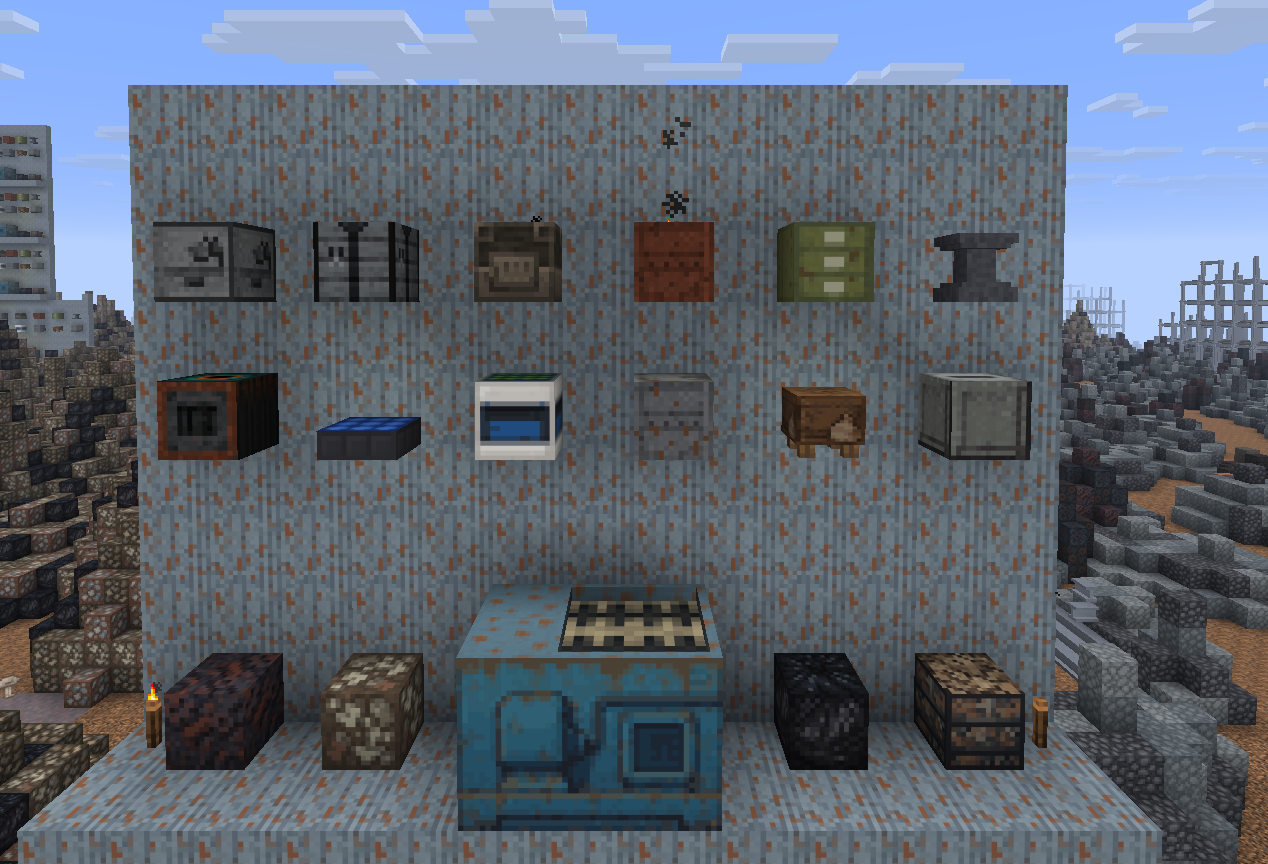
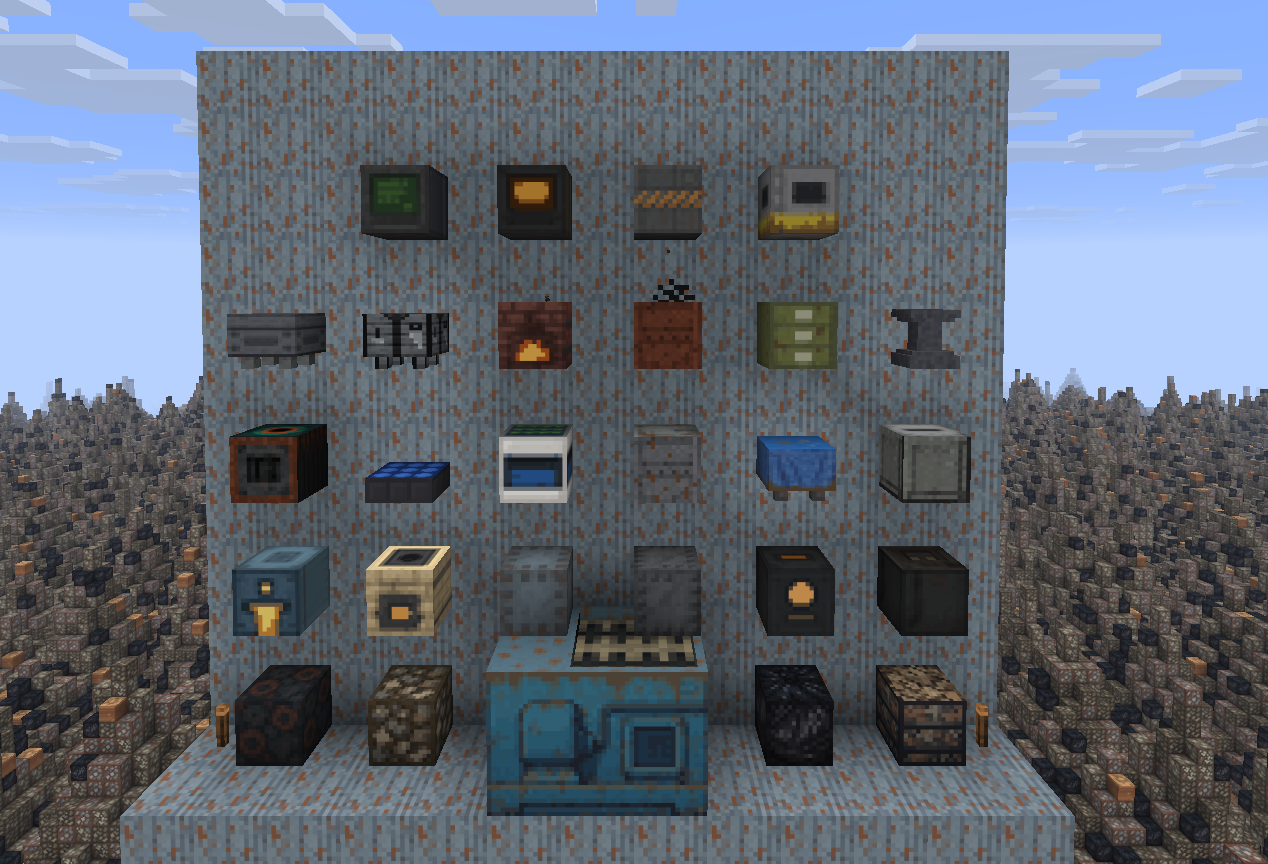
fix(showcase): the machine wall carries the market, forms its Separator, and stops dropping piles (#354) (#442)
* fix(showcase): the machine wall carries the market, forms its Separator, and stops dropping piles (#354)

- SEPARATOR_CELLS had a Machine Frame at (1, 0, 1), where the blueprint
  has wanted the Motor since #165. Checked against the whole of
  SeparatorCoreBlock.createBlueprint rather than the one cell; it forms now.
- A market row on top: Sell, Buy and Freight Terminals and the Hauler
  Depot, the four machines missing from the wall. WALL_H 9 -> 11 and the
  camera moves back to hold the taller wall at the same margin.
- The four piles are FallingBlocks. Mounted in the third row they always
  dropped; they used to land on the floor, and since #367 put machines on
  the floor course they landed on top of those. The piles now sit on the
  floor course beside the Separator and the machines take the third row.

Rebuilt with tools/build_showcase.py, installed into the dev world, shot
with tools/shoot_scenes.py machine_wall, and cropped into
docs/cf_image_gallery/03-machine-wall.png with prepare_gallery.py (948 KB).

Claude-Session: https://claude.ai/code/session_014wK5x4yxZaTgKUgU9JJ6dD

* docs(showcase): four rows of machines, not five

Review of #442: the third row is one of the original three, with its piles
swapped for machines.

Claude-Session: https://claude.ai/code/session_014wK5x4yxZaTgKUgU9JJ6dD

---------

diff --git a/tools/build_showcase.py b/tools/build_showcase.py
@@ -647,20 +647,28 @@ RECLAIM_AFTER = Scene(
 # other, the far ones shrink with distance, and no camera catches the Separator without losing the
 # bench behind it. A wall gives every machine the same distance and the same size, which is the whole
 # reason the museum works, and here the subject is the machines rather than the room.
-WALL_W, WALL_H = 13, 9
+WALL_W, WALL_H = 13, 11
 PANEL = "recompile:corrugated_metal"
-BEAM, FRAME = "recompile:steel_i_beam", "recompile:machine_frame"
+BEAM, FRAME, MOTOR = "recompile:steel_i_beam", "recompile:machine_frame", "recompile:motor"
 
-# Mounted on the wall face, read left to right, top row down: what you build, what you burn, what you
-# power it with, what you store it in, and what you feed it.
+# Mounted on the wall face, read left to right, top row down: what you trade, what you build, what you
+# burn, what you power it with, what you store it in, and what you feed it.
 #
 # SPACED TWO APART, NOT THREE. The first pass used a 19-wide wall on a three-block grid and the
 # machines read as scattered dots on a field of panel - a wall works by putting things next to each
 # other, and gaps that large undo the reason for building one.
 COLS = (1, 3, 5, 7, 9, 11)
 ROWS = (7, 5, 3)
+# The market row, added on top when the terminals and the Hauler Depot shipped (#354). Four machines,
+# centred on the wall's middle column, so the grid below keeps its six-wide rhythm untouched.
+TOP_ROW = 9
 
 WALL_MACHINES = {
+    (COLS[1], TOP_ROW): "recompile:sell_terminal[facing=south]",
+    (COLS[2], TOP_ROW): "recompile:buy_terminal[facing=south]",
+    (COLS[3], TOP_ROW): "recompile:freight_terminal",
+    (COLS[4], TOP_ROW): "recompile:hauler_depot",
+
     (COLS[0], ROWS[0]): "recompile:recompile_workbench",
     (COLS[1], ROWS[0]): "recompile:scrap_crafting_table",
     (COLS[2], ROWS[0]): "recompile:cupola_furnace[facing=south,lit=true]",
@@ -675,22 +683,25 @@ WALL_MACHINES = {
     (COLS[4], ROWS[1]): "recompile:sorting_tarp",
     (COLS[5], ROWS[1]): "recompile:scrap_bin",
 
-    (COLS[0], ROWS[2]): "recompile:mechanical_waste",
-    (COLS[1], ROWS[2]): "recompile:garbage_block",
+    # Facing SOUTH for the same reason every other directional block on this wall does: the camera
+    # looks down -z, so a default-facing furnace would present its back to it.
+    (COLS[0], ROWS[2]): "recompile:slag_furnace[facing=south,lit=true]",
+    (COLS[1], ROWS[2]): "recompile:sintering_kiln[facing=south,lit=true]",
     # The two conveyor machines that share the Separator's contract, put beside the gap it stands in.
     (COLS[2], ROWS[2]): "recompile:trommel[facing=south,active=false,formed=false]",
     (COLS[3], ROWS[2]): "recompile:pulverizer[facing=south,active=false,formed=false]",
-    (COLS[4], ROWS[2]): "recompile:trash_bag",
-    (COLS[5], ROWS[2]): "recompile:compacted_bale",
+    (COLS[4], ROWS[2]): "recompile:sequencer[facing=south]",
+    (COLS[5], ROWS[2]): "recompile:charging_station",
 
-    # THE BOTTOM COURSE, which the Separator has had to itself. It is three wide and centred at
-    # COLS[2..3], so four cells flank it and four machines were missing a place to stand. Facing SOUTH
-    # for the same reason every other directional block on this wall does: the camera looks down -z, so
-    # a default-facing furnace would present its back to it.
-    (COLS[0], 1): "recompile:slag_furnace[facing=south,lit=true]",
-    (COLS[1], 1): "recompile:sintering_kiln[facing=south,lit=true]",
-    (COLS[4], 1): "recompile:sequencer[facing=south]",
-    (COLS[5], 1): "recompile:charging_station",
+    # THE BOTTOM COURSE: the Separator, flanked by the piles it all starts from. The piles have to be
+    # here and nowhere higher, because every one of them is a FallingBlock - mounted on the wall they
+    # drop the moment the scene is placed. They used to hang in the row above and land on the floor,
+    # which looked deliberate; once #367 put machines on this course they landed on top of those
+    # instead (#354). On the floor they are already where gravity would put them.
+    (COLS[0], 1): "recompile:mechanical_waste",
+    (COLS[1], 1): "recompile:garbage_block",
+    (COLS[4], 1): "recompile:trash_bag",
+    (COLS[5], 1): "recompile:compacted_bale",
 }
 
 
@@ -710,9 +721,14 @@ def _wall_cells() -> dict:
 
 # The Separator's blueprint, transcribed as COMPONENTS only - the formed cells are the game's job.
 # Offsets are the blueprint's own, valid at facing=north.
+#
+# (1, 0, 1) IS THE MOTOR, the back-centre drive cell (owner ruling 2026-08-06, #165). This read FRAME
+# from the day the Motor cell shipped, so the blueprint could never be satisfied and the wall's
+# centrepiece never formed - in every shot taken since (#354). The transcription is by hand, so it
+# is checked against SeparatorCoreBlock.createBlueprint() rather than trusted.
 SEPARATOR_CELLS = {
     (1, 0, 0): FRAME, (2, 0, 0): FRAME,
-    (0, 0, 1): FRAME, (1, 0, 1): FRAME, (2, 0, 1): FRAME,
+    (0, 0, 1): FRAME, (1, 0, 1): MOTOR, (2, 0, 1): FRAME,
     (0, 1, 0): FRAME, (0, 1, 1): FRAME,
     (1, 1, 0): BEAM, (1, 1, 1): BEAM, (2, 1, 0): BEAM, (2, 1, 1): BEAM,
 }
@@ -726,9 +742,10 @@ MACHINE_WALL = Scene(
     # Centred at the bottom and standing proud of the wall, because it is the one machine that is
     # three blocks wide and the only multiblock here. Its own depth carries it toward the camera.
     assemble=[Machine(core="recompile:separator", at=(5, 1, 1), cells=SEPARATOR_CELLS)],
-    # Distance set by the wall's height, which is the binding dimension at this aspect: 4.5/tan(35)
-    # is about 6.4, so 8 back leaves a little margin without stranding it in the middle of the frame.
-    camera=Camera(pos=(6.5, 5.4, 10.0), yaw=180.0, pitch=2.0),
+    # Distance set by the wall's height, which is the binding dimension at this aspect: 5.5/tan(35)
+    # is about 7.9, and 11.5 back keeps the margin the 9-high wall had at 10 before the market row
+    # went on top. Height is the wall's middle, lifted the same 0.4 it always was.
+    camera=Camera(pos=(6.5, 6.4, 11.5), yaw=180.0, pitch=2.0),
     clearance=4,
     anchor="player",
 )

diff --git a/docs/showcase_status.md b/docs/showcase_status.md
@@ -1,14 +1,14 @@
 # Showcase scenes - where this got to
 
-**Marker, 2026-08-04.** Phases 1 and 2 of `docs/showcase_spec.md` were built and merged by then; phase 3,
-the machine hall, has since shipped as `machine_wall`. This file is the resume point, not a design doc.
+**Marker, 2026-09-10.** Phases 1 and 2 of `docs/showcase_spec.md` were built and merged by 2026-08-04;
+phase 3, the machine hall, shipped as `machine_wall` and was brought current and re-shot in #354. This file is the resume point, not a design doc.
 
 ## Built and shot
 
 | Scene | State |
 | --- | --- |
 | `museum` | **Done and approved.** Six recovered masterworks over four loaded pedestals, landfill on the horizon. Ready for the CurseForge gallery |
-| `machine_wall` | **Built, not re-shot, and the Separator never forms.** Twenty-two blocks in one plane plus the Separator's loose components, standing in the dump. `SEPARATOR_CELLS` in `tools/build_showcase.py` puts a Machine Frame at `(1, 0, 1)` where `SeparatorCoreBlock`'s blueprint wants the Motor, so the game cannot assemble it. #367 added six machines (Trommel, Pulverizer, Slag Furnace, Sintering Kiln, Sequencer, Charging Station); the Hauler Depot and the Freight, Sell and Buy Terminals are still missing, and the gallery image still shows the old wall. All of it is open as #354 |
+| `machine_wall` | **Done and re-shot (2026-09-10, #354).** Twenty-six blocks in one plane plus the formed Separator, standing in the dump: a market row on top (Sell, Buy and Freight Terminals, Hauler Depot), then the two original rows, then the Slag Furnace, Kiln, Trommel, Pulverizer, Sequencer and Charging Station, with the four piles on the floor course either side of the Separator. The piles live on the floor because every one is a FallingBlock. `SEPARATOR_CELLS` now names the Motor at `(1, 0, 1)` as the blueprint does. `docs/cf_image_gallery/03-machine-wall.png` is the new shot |
 | `reclaim_before` / `reclaim_after` | **Done, and shot automatically.** Ground-anchored, standing in real terrain with the dump around them, HUD off, identical camera. `python tools/shoot_scenes.py` takes both without a keystroke - it defaults to the pair, because they are the two frames that must share a camera |
 
 ## Where the images go
